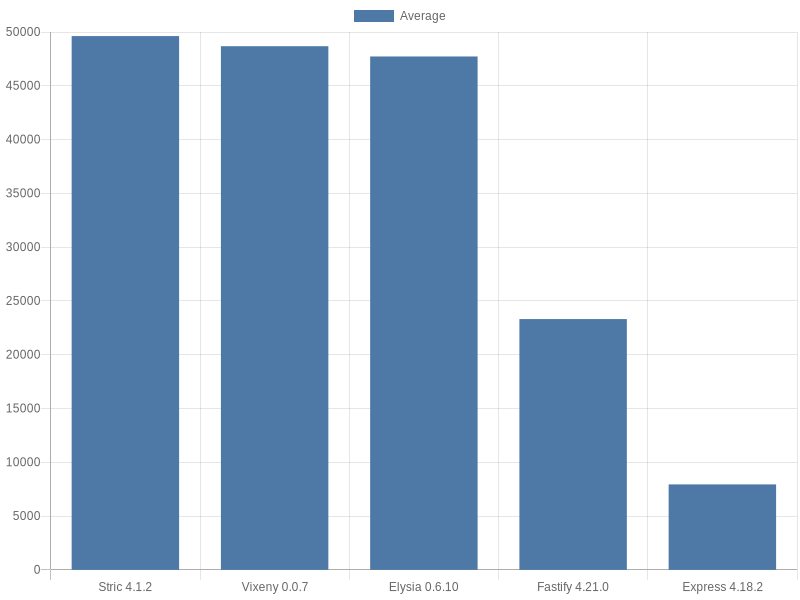
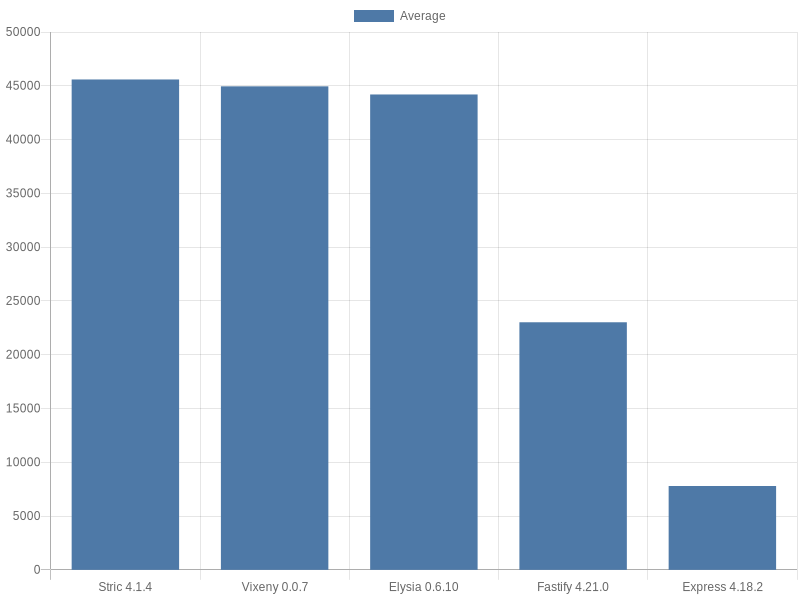
Update

Changed region(s): [[0.0625, 0.06, 0.625, 0.18], [0.8438, 0.78, 0.9688, 0.81], [0.6562, 0.51, 0.7812, 0.54]]

diff --git a/src/Stric/index.ts b/src/Stric/index.ts
@@ -3,12 +3,11 @@ import { qs } from '@stricjs/utils';
 
 const toRes = Response.json, parse = qs.searchKey('name');
 
-const app = new Router({ base: 'http://localhost:3000', parsePath: false })
+const app = new Router({ base: 'http://localhost:3000' })
     .get('/', macro('Hi'))
     .get('/api/hi', macro('Welcome'))
-    .post('/api/json', req => req.json().then(toRes))
-    .get('/id/:id', req => new Response(req.params.id + ' ' + parse(req)))
+    .post('/api/json', c => c.json().then(toRes))
+    .get('/id/:id', c => new Response(c.params.id + ' ' + parse(c)))
     .use(404);
 
-console.log(app.fetch.toString());
 export default app;

diff --git a/results/index.md b/results/index.md
@@ -1,6 +1,6 @@
-Bun: 0.7.3
+Bun: 0.8.1
 
-Tested at: 05:53, August 24th, 2023
+Tested at: 10:00, September 2nd, 2023
 
 ## OS Details
 - Cores: 8
@@ -13,7 +13,7 @@ Tested at: 05:53, August 24th, 2023
 Should return `Hi` as a response.
 ### GET `/api/hi`
 Should return `Welcome` as a response.
-### GET `/id/73?name=tJD`
+### GET `/id/90?name=4dY`
 Should return the `id` parameter value and the query value, for example `1 a` when the request path is `/id/1?name=a`.
 ### GET `/a/b`
 Should return a response with `404` status code.
@@ -26,10 +26,10 @@ Return the request body with `Content-Type` set to `application/json`.
 - Results are measured in requests per second.
 
 ## Results
-| Name | Average | GET `/` | GET `/api/hi` | GET `/id/46?name=uWF` | GET `/a/b` | POST `/api/json` |
+| Name | Average | GET `/` | GET `/api/hi` | GET `/id/76?name=8W8` | GET `/a/b` | POST `/api/json` |
 |  :---: | :---: | :---: | :---: | :---: | :---: | :---: |
-| [Stric 4.1.2](/results/main/Stric) | 49624.10 | 51927.51 | 50064.84 | 47868.21 | 51640.45 | 46619.50 |
-| [Vixeny 0.0.7](/results/main/Vixeny) | 48677.09 | 52184.29 | 50372.65 | 46565.49 | 48475.47 | 45787.55 |
-| [Elysia 0.6.10](/results/main/Elysia) | 47728.58 | 50550.06 | 48635.60 | 46876.62 | 47388.56 | 45192.06 |
-| [Fastify 4.21.0](/results/main/Fastify) | 23313.47 | 25865.34 | 25464.83 | 24079.14 | 22524.02 | 18634.03 |
-| [Express 4.18.2](/results/main/Express) | 7942.16 | 9013.45 | 8908.01 | 8423.72 | 7178.27 | 6187.36 |
+| [Stric 4.1.4](/results/main/Stric) | 45589.15 | 47989.13 | 47795.33 | 47048.84 | 47457.16 | 37655.30 |
+| [Vixeny 0.0.7](/results/main/Vixeny) | 44951.58 | 48347.74 | 46944.82 | 45643.39 | 46934.41 | 36887.52 |
+| [Elysia 0.6.10](/results/main/Elysia) | 44193.51 | 47257.16 | 46540.29 | 44189.59 | 46243.50 | 36737.02 |
+| [Fastify 4.21.0](/results/main/Fastify) | 23013.20 | 25016.20 | 25303.95 | 23518.05 | 22278.51 | 18949.29 |
+| [Express 4.18.2](/results/main/Express) | 7796.25 | 8745.89 | 8890.24 | 8370.15 | 6937.15 | 6037.80 |

diff --git a/README.md b/README.md
@@ -53,10 +53,10 @@ See [configuration file](/config.ts) and the [type declarations](/lib/types.ts).
 ### Table 
 
 
-| Name | Average | GET `/` | GET `/api/hi` | GET `/id/46?name=uWF` | GET `/a/b` | POST `/api/json` |
+| Name | Average | GET `/` | GET `/api/hi` | GET `/id/76?name=8W8` | GET `/a/b` | POST `/api/json` |
 |  :---: | :---: | :---: | :---: | :---: | :---: | :---: |
-| [Stric 4.1.2](/results/main/Stric) | 49624.10 | 51927.51 | 50064.84 | 47868.21 | 51640.45 | 46619.50 |
-| [Vixeny 0.0.7](/results/main/Vixeny) | 48677.09 | 52184.29 | 50372.65 | 46565.49 | 48475.47 | 45787.55 |
-| [Elysia 0.6.10](/results/main/Elysia) | 47728.58 | 50550.06 | 48635.60 | 46876.62 | 47388.56 | 45192.06 |
-| [Fastify 4.21.0](/results/main/Fastify) | 23313.47 | 25865.34 | 25464.83 | 24079.14 | 22524.02 | 18634.03 |
-| [Express 4.18.2](/results/main/Express) | 7942.16 | 9013.45 | 8908.01 | 8423.72 | 7178.27 | 6187.36 |
+| [Stric 4.1.4](/results/main/Stric) | 45589.15 | 47989.13 | 47795.33 | 47048.84 | 47457.16 | 37655.30 |
+| [Vixeny 0.0.7](/results/main/Vixeny) | 44951.58 | 48347.74 | 46944.82 | 45643.39 | 46934.41 | 36887.52 |
+| [Elysia 0.6.10](/results/main/Elysia) | 44193.51 | 47257.16 | 46540.29 | 44189.59 | 46243.50 | 36737.02 |
+| [Fastify 4.21.0](/results/main/Fastify) | 23013.20 | 25016.20 | 25303.95 | 23518.05 | 22278.51 | 18949.29 |
+| [Express 4.18.2](/results/main/Express) | 7796.25 | 8745.89 | 8890.24 | 8370.15 | 6937.15 | 6037.80 |
